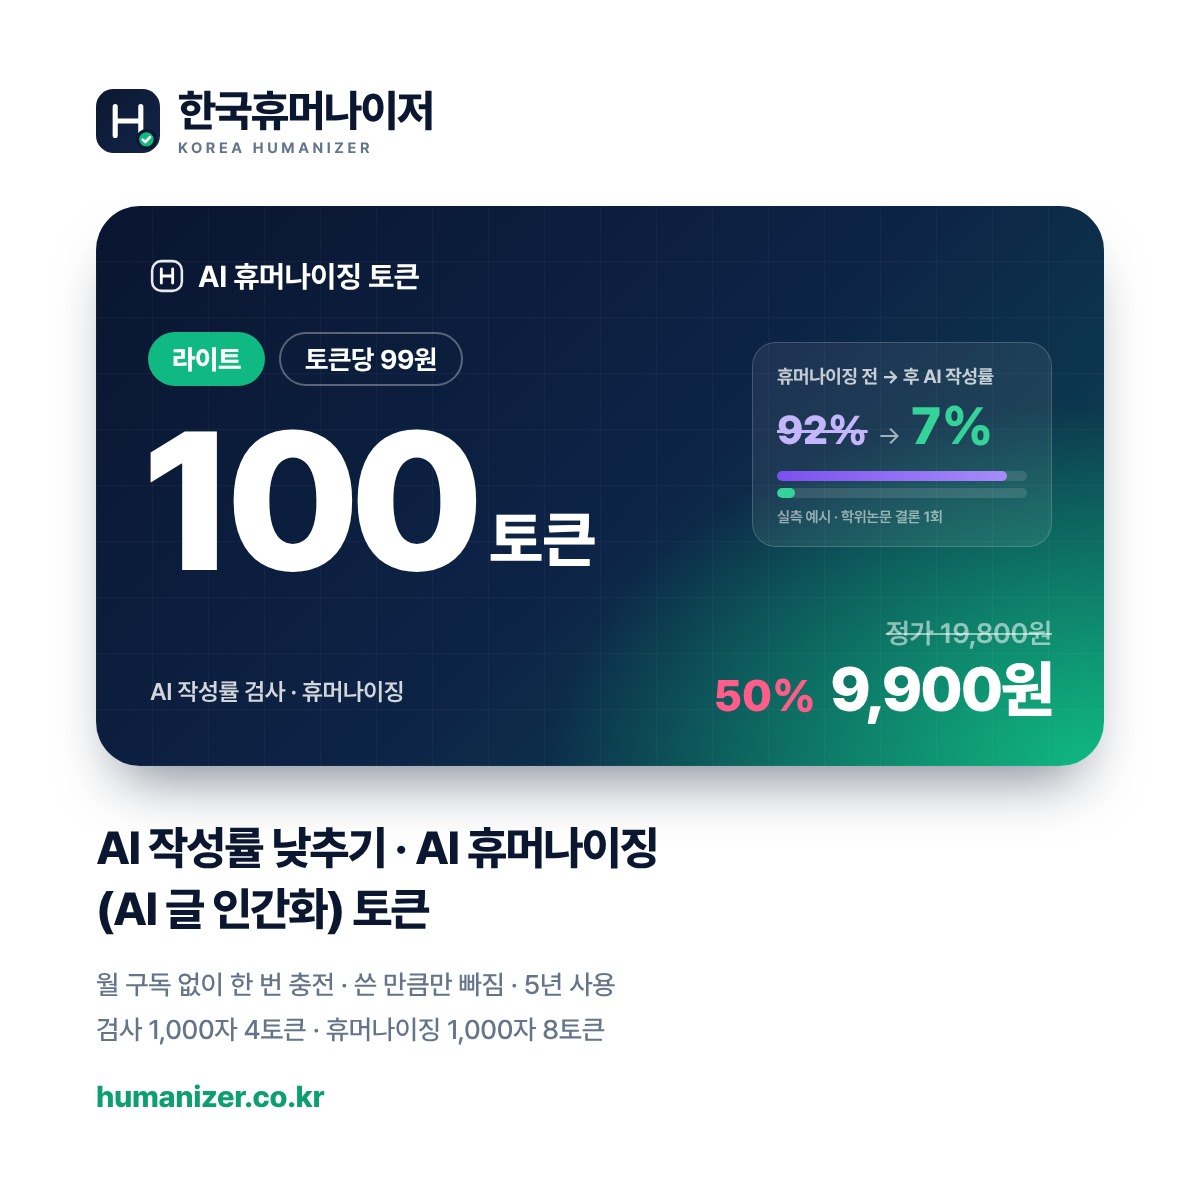
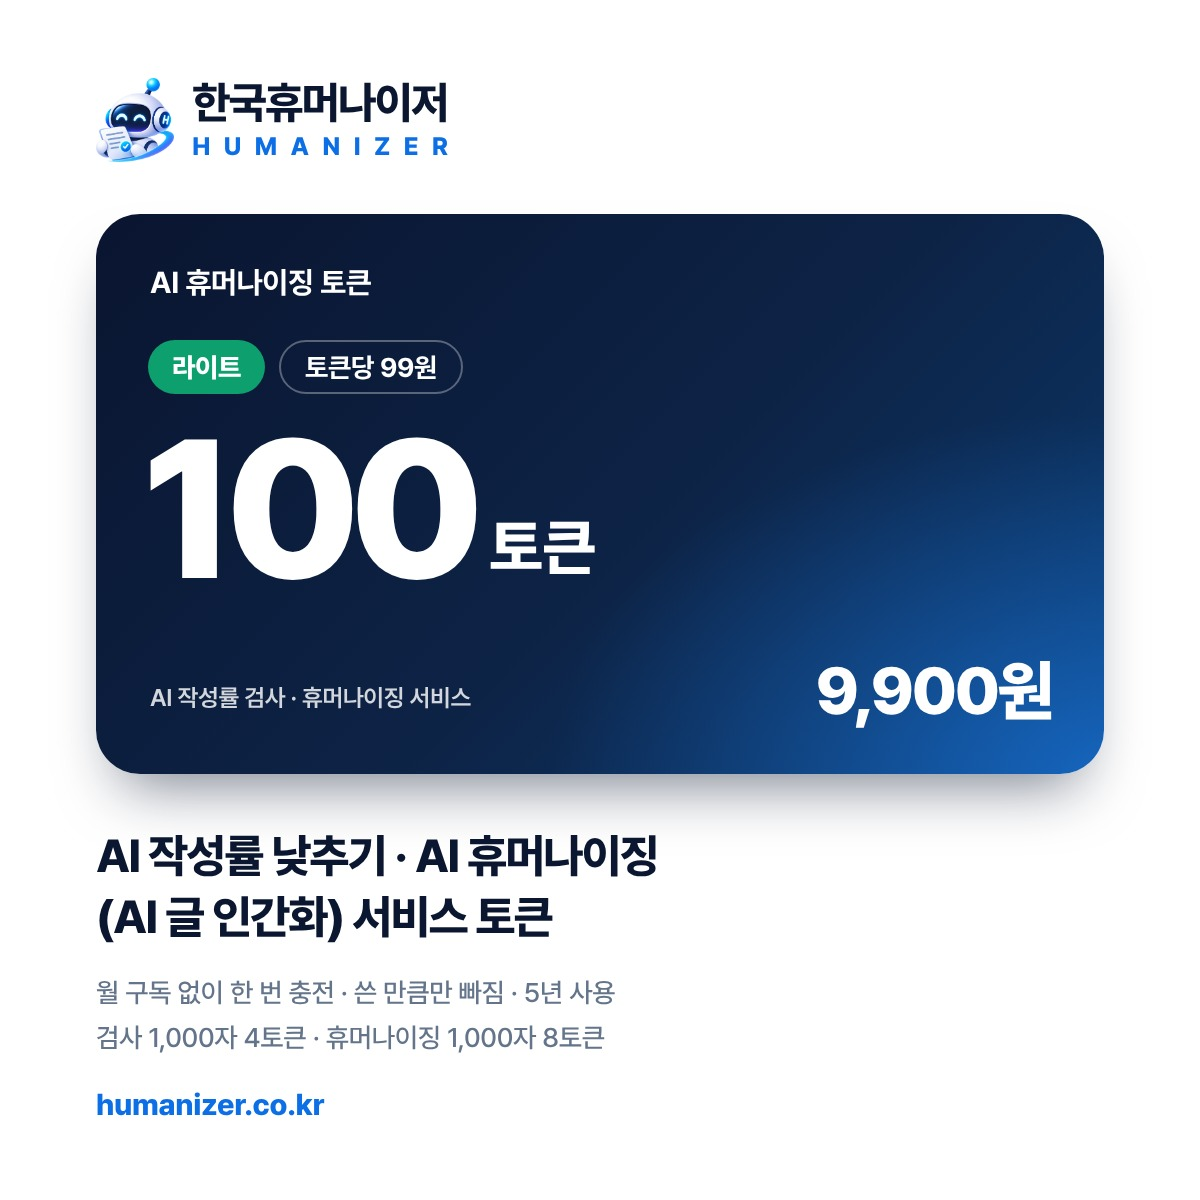
상품 그림 새로: 로봇 로고, 정가 · 50% · 전후 막대 상자 빼고 AIMarker 처럼 간단하게
Claude-Session: https://claude.ai/code/session_01S1z1uuASDUV4gCy4sTUDQx

diff --git a/_src/shop/render.py b/_src/shop/render.py
@@ -126,20 +126,89 @@ p{font-size:23.5px;line-height:1.6;color:#475569;font-weight:500}
 </body></html>""" % (BASE_CSS, lg, steps)
 
 
+
+# ---------- 2026.11.21 밤 대표: 로봇 로고, 'AIMarker 처럼 간단 · 깔끔', 정가 · 50% · 전후 막대(92% → 7%) 상자는 뺌 ----------
+ROBOT = "file://" + os.path.join(os.path.dirname(HERE), "brand", "robot.png")
+LOCKUP = ('<div class="brand"><img src="%s" alt=""><div><b>한국휴머나이저</b><i>%s</i></div></div>'
+          % (ROBOT, "".join("<span>%s</span>" % c for c in "HUMANIZER")))
+LOCKUP_CSS = """
+.brand{position:absolute;left:96px;top:78px;display:flex;align-items:center;gap:18px}
+.brand img{height:84px}
+.brand b{display:block;font-size:44px;font-weight:800;letter-spacing:-.035em;color:#0b1730;line-height:1}
+.brand i{display:flex;justify-content:space-between;margin-top:9px;font-style:normal;font-size:25px;font-weight:800;color:#0c6fe6;line-height:1}
+"""
+
+
+def thumb2_html(p):
+    badge = ""
+    if p["badge"] == "BEST 추천":
+        badge = '<div class="badge best">BEST 추천</div>'
+    elif p["badge"]:
+        badge = '<div class="badge top">%s</div>' % p["badge"]
+    save = ('<div class="save">%s</div>' % p["save"]) if p["save"] else '<div class="note">AI 작성률 검사 · 휴머나이징 서비스</div>'
+    small = len(p["tok"]) > 3
+    return """<!doctype html><html><head><meta charset="utf-8"><style>%s%s
+body{width:1200px;height:1200px;background:#fff;position:relative;overflow:hidden}
+.card{position:absolute;left:96px;top:214px;width:1008px;height:560px;border-radius:44px;overflow:hidden;
+ background:radial-gradient(120%% 140%% at 100%% 100%%,rgba(30,136,255,.55) 0%%,rgba(30,136,255,0) 46%%),linear-gradient(135deg,#0a1530 0%%,#0d2346 55%%,#0b3a6e 100%%);
+ box-shadow:0 34px 60px -24px rgba(11,23,48,.55)}
+.hd{position:absolute;left:54px;top:50px;display:flex;align-items:center;gap:14px;color:#fff;font-size:30px;font-weight:700}
+.badge{position:absolute;right:52px;top:46px;height:52px;padding:0 24px;border-radius:26px;display:flex;align-items:center;font-size:26px;font-weight:800;z-index:2}
+.badge.best{background:#fbbf24;color:#1a1a1a}
+.badge.top{background:#fff;color:#0b1730}
+.pills{position:absolute;left:52px;top:126px;display:flex;gap:14px;z-index:2}
+.pill{height:54px;padding:0 24px;border-radius:27px;display:flex;align-items:center;font-size:27px;font-weight:800}
+.pill.n{background:#0e9f6e;color:#fff}
+.pill.o{border:2px solid rgba(255,255,255,.32);color:#fff;font-weight:700}
+.big{position:absolute;left:46px;top:196px;display:flex;align-items:flex-end;color:#fff;z-index:2}
+.big b{font-size:%dpx;font-weight:850;letter-spacing:-.06em;line-height:1}
+.big span{font-size:62px;font-weight:800;margin:0 0 22px 16px}
+.save{position:absolute;left:52px;bottom:50px;height:52px;padding:0 20px;border-radius:12px;border:2px solid rgba(251,191,36,.75);background:rgba(251,191,36,.08);color:#fcd34d;font-size:24px;font-weight:800;display:flex;align-items:center;z-index:2}
+.note{position:absolute;left:54px;bottom:62px;color:rgba(255,255,255,.82);font-size:24px;font-weight:600;z-index:2}
+.price{position:absolute;right:52px;bottom:44px;color:#fff;z-index:2;font-size:66px;font-weight:850;letter-spacing:-.04em}
+.ttl{position:absolute;left:96px;top:826px;font-size:46px;font-weight:800;line-height:1.32;letter-spacing:-.035em;color:#0b1730}
+.sub{position:absolute;left:96px;top:970px;font-size:27px;line-height:1.68;color:#64748b;font-weight:500}
+.dom{position:absolute;left:96px;top:1086px;font-size:30px;font-weight:800;color:#0c6fe6}
+</style></head><body>
+%s
+<div class="card">
+ <div class="hd">AI 휴머나이징 토큰</div>%s
+ <div class="pills"><div class="pill n">%s</div><div class="pill o">%s</div></div>
+ <div class="big"><b>%s</b><span>토큰</span></div>
+ %s
+ <div class="price">%s</div>
+</div>
+<div class="ttl">AI 작성률 낮추기 · AI 휴머나이징<br>(AI 글 인간화) 서비스 토큰</div>
+<div class="sub">월 구독 없이 한 번 충전 · 쓴 만큼만 빠짐 · 5년 사용<br>검사 1,000자 4토큰 · 휴머나이징 1,000자 8토큰</div>
+<div class="dom">humanizer.co.kr</div>
+</body></html>""" % (BASE_CSS, LOCKUP_CSS, 168 if small else 196, LOCKUP, badge, p["name"], p["per"], p["tok"], save, p["price"])
+
+
+def guide2_html():
+    h = guide_html()
+    # 로고만 로봇으로(내용은 그대로)
+    lg = LOGO % (60, 60, "g", "g")
+    old_brand = '<div class="brand">%s<div><b>한국휴머나이저</b><small>KOREA HUMANIZER</small></div></div>' % lg
+    new_brand = ('<div class="brand"><img src="%s" alt="" style="height:76px"><div><b>한국휴머나이저</b>'
+                 '<small style="display:flex;justify-content:space-between;letter-spacing:0;font-size:21px;font-weight:800;color:#0c6fe6;margin-top:7px">%s</small></div></div>'
+                 % (ROBOT, "".join("<span>%s</span>" % c for c in "HUMANIZER")))
+    assert old_brand in h
+    return h.replace(old_brand, new_brand)
+
 async def main():
     async with async_playwright() as pw:
         br = await pw.chromium.launch(executable_path="/usr/bin/google-chrome", args=["--allow-file-access-from-files"])
         pg = await br.new_page(viewport={"width": 1200, "height": 1200}, device_scale_factor=1)
         for p in PACKS:
             f = os.path.join(HERE, "_t_%s.html" % p["id"])
-            open(f, "w").write(thumb_html(p))
+            open(f, "w").write(thumb2_html(p))
             await pg.goto("file://" + f)
             await pg.evaluate("document.fonts.ready")
             await pg.wait_for_timeout(250)
             await pg.screenshot(path=os.path.join(OUT, "hz-%s-1x1.jpg" % p["id"]), type="jpeg", quality=92)
         await pg.set_viewport_size({"width": 1080, "height": 1350})
         f = os.path.join(HERE, "_t_guide.html")
-        open(f, "w").write(guide_html())
+        open(f, "w").write(guide2_html())
         await pg.goto("file://" + f)
         await pg.evaluate("document.fonts.ready")
         await pg.wait_for_timeout(250)
